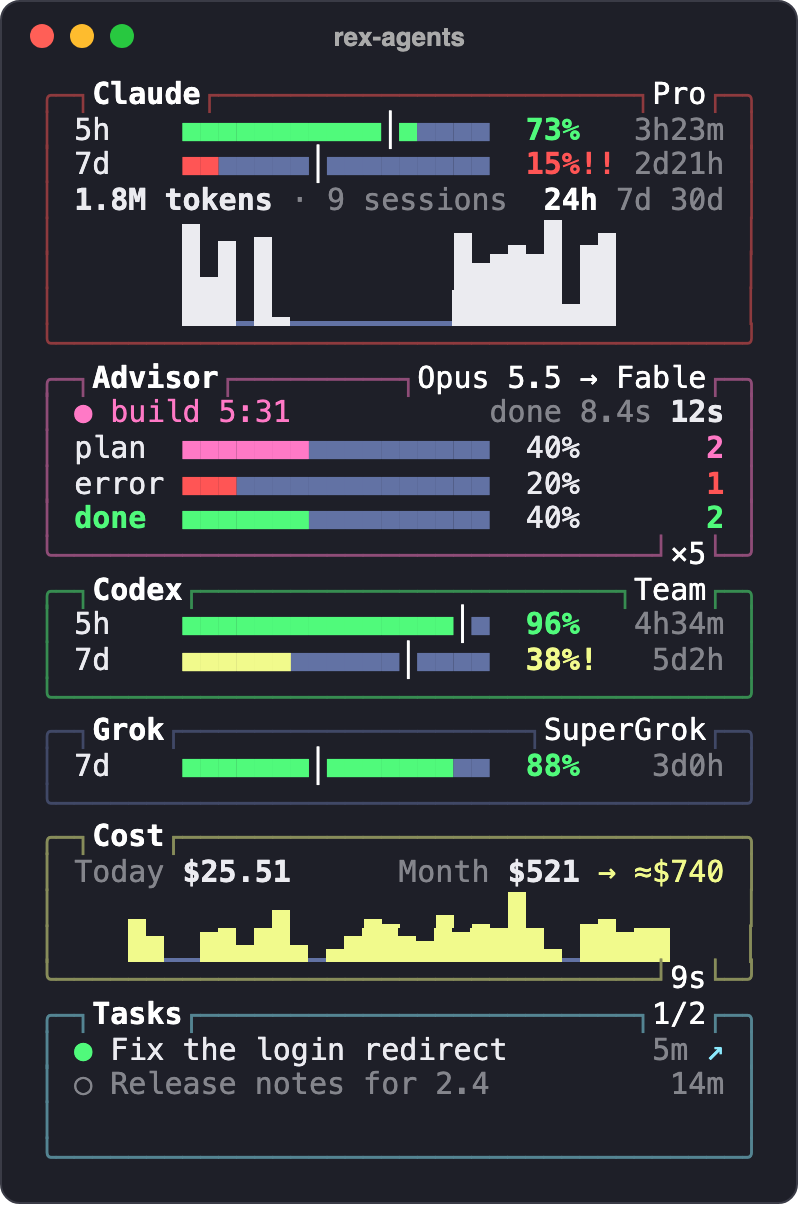
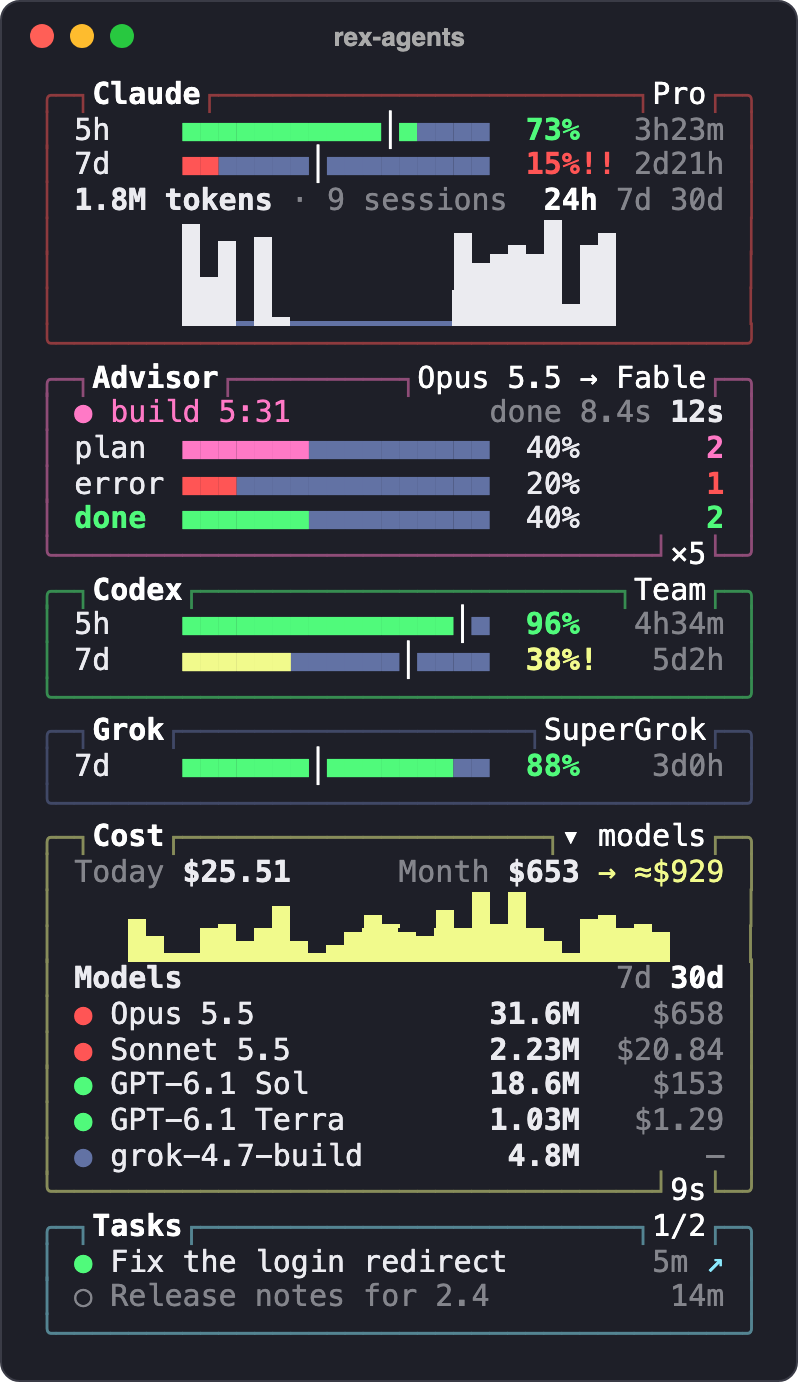
Open each model's tokens and cost from the Cost box
A click on `▸ models` on the Cost box's top edge lists every agent's
models over the last 7 or 30 days, grouped by agent, most tokens first,
with `—` for a model with no public price. Once opened it goes in before
the charts, cut to fit.

diff --git a/rex_agents/pane.py b/rex_agents/pane.py
@@ -112,6 +112,31 @@ def daily_costs(rows: list[dict[str, Any]], now: int, days: int = 30) -> list[fl
     return list(bars.values())
 
 
+# The models list's spans: the hourly rows carry no model.
+MODEL_SPANS = ("7d", "30d")
+AGENT_ORDER = ("claude", "codex", "grok")
+
+
+def model_usage(rows: list[dict[str, Any]], span: str, now: int) -> list[tuple[str, str, int, Optional[float]]]:
+    """Each model's agent, name, tokens and cost over the last `span` days,
+    by agent, then most tokens first. Unused models are left out; a cost is
+    None when the model has no public price."""
+    today = datetime.fromtimestamp(now).date()
+    days = {(today - timedelta(days=i)).isoformat() for i in range(int(span[:-1]))}
+    found: dict[tuple[str, str], list[Any]] = {}
+    for r in rows:
+        if r["date"] not in days:
+            continue
+        name = re.sub(r"^Claude ", "", r.get("model_name") or r["model"])
+        entry = found.setdefault((r["agent"], name), [0, None])
+        entry[0] += tokens(r)
+        if r.get("cost") is not None:
+            entry[1] = (entry[1] or 0) + r["cost"]
+    order = {a: i for i, a in enumerate(AGENT_ORDER)}
+    listed = [(a, n, t, c) for (a, n), (t, c) in found.items() if t]
+    return sorted(listed, key=lambda m: (order.get(m[0], len(order)), m[0], -m[2]))
+
+
 # The trend's spans: the hours of the last day, or the last 7 or 30 days.
 SPANS = ("24h", "7d", "30d")
 CHART_ROWS = 3
@@ -213,7 +238,8 @@ class _Boxes:
         self.width = width
         self.inner = width - 4
 
-    def edge(self, top: bool, color: str, title: str = "", label: str = "", label_color: str = TITLE) -> Line:
+    def edge(self, top: bool, color: str, title: str = "", label: str = "", label_color: str = TITLE,
+             label_key: Optional[str] = None) -> Line:
         left, right = ("╭", "╮") if top else ("╰", "╯")
         opening, closing = ("┐", "┌") if top else ("┘", "└")
         room = self.width - 2 - (text_width(title) + 3 if title else 0)
@@ -224,14 +250,14 @@ class _Boxes:
             line += [Span(title, TITLE, True), Span(closing, color)]
         line.append(Span("─" * max(fill, 0) + (opening if label else ""), color))
         if label:
-            line += [Span(label, label_color), Span(closing + "─", color)]
+            line += [Span(label, label_color, False, label_key), Span(closing + "─", color)]
         line.append(Span(right, color))
         return line
 
     def box(self, title: str, color: str, rows: list[Line], top: str = "", foot: str = "",
-            foot_color: str = TITLE) -> list[Line]:
+            foot_color: str = TITLE, top_key: Optional[str] = None) -> list[Line]:
         body = [[Span("│ ", color), *fit(row, self.inner), Span(" │", color)] for row in rows]
-        return [self.edge(True, color, title, top), *body, self.edge(False, color, "", foot, foot_color)]
+        return [self.edge(True, color, title, top, TITLE, top_key), *body, self.edge(False, color, "", foot, foot_color)]
 
 
 def _spread(left: Line, right: Line, width: int) -> Line:
@@ -244,19 +270,20 @@ def _spread(left: Line, right: Line, width: int) -> Line:
 
 def build_pane(snap: Optional[dict[str, Any]], error: Optional[str], width: int, height: int, now: int,
                advisors: Sequence[dict[str, Any]] = (), tab_agents: Sequence[str] = (),
-               span: str = SPANS[0], linked: Collection[int] = ()) -> list[Line]:
+               span: str = SPANS[0], linked: Collection[int] = (), models: Optional[str] = None) -> list[Line]:
     """Exactly `height` lines of `width` cells. `advisors` are the states
     advisor-live shares of the Claude Code sessions in this tab;
     `tab_agents` the agents running in it, whose boxes get a usage trend
     over `span` when there is room; `linked` the pids of tasks in a Rex
-    pane, which a click on their row goes to."""
+    pane, which a click on their row goes to; `models` the span of the
+    per-model list the Cost box opens to, None while it is closed."""
     width, height = max(width, 1), max(height, 1)
     if snap is None:
         lines: list[Line] = [[Span(error, ERROR)] if error else [Span("Loading", MUTED)]]
     elif width < 24:
         lines = [[Span("Too narrow", MUTED)]]
     else:
-        lines = _layout(snap, error, width, height, now, advisors, tab_agents, span, linked)
+        lines = _layout(snap, error, width, height, now, advisors, tab_agents, span, linked, models)
     lines = [fit(_merge(line), width) for line in lines[:height]]
     return [*lines, *[[Span(" " * width)] for _ in range(height - len(lines))]]
 
@@ -299,7 +326,7 @@ def _advisor_rows(state: dict[str, Any], inner: int, label_w: int, meter_w: int,
 
 def _layout(snap: dict[str, Any], error: Optional[str], width: int, height: int, now: int,
             advisors: Sequence[dict[str, Any]], tab_agents: Sequence[str], span: str,
-            linked: Collection[int]) -> list[Line]:
+            linked: Collection[int], models: Optional[str] = None) -> list[Line]:
     boxes = _Boxes(width)
     accounts = snap["accounts"]
     usage = snap.get("usage", {})
@@ -323,9 +350,24 @@ def _layout(snap: dict[str, Any], error: Optional[str], width: int, height: int,
 
     account_rows = sum(max(1, len(live(a))) + 2 for a in accounts)
     account_rows += sum(len(_moments(st)) + 3 for st in advisors)
-    # Trends only when the boxes, cost and a task row still fit beside them;
-    # the cost chart goes first, then the agents' trends.
-    base = account_rows + 3 + 3
+    # The models list, opened by a click, goes before anything else, cut to
+    # fit; then trends while the boxes, cost and a task row still fit
+    # beside them; the cost chart goes first, then the agents' trends.
+    listed = model_usage(usage.get("rows", []), models, now) if models else []
+    model_rows: list[Line] = []
+    if models:
+        tabs: Line = []
+        for s in MODEL_SPANS:
+            tabs += [Span(" " if tabs else ""), Span(s, TITLE if s == models else MUTED, s == models, f"models:{s}")]
+        model_rows.append(_spread([Span("Models", None, True)], tabs, boxes.inner))
+        for agent, name, n, cost in listed:
+            model_rows.append(_spread([Span("● ", BOX.get(agent, OTHER_BOX).split(";")[-1]), Span(name)],
+                                      [Span(pad_text(count(n), 7, True), None, True),
+                                       Span(pad_text(money(cost), 8, True), MUTED)], boxes.inner))
+        if not listed:
+            model_rows.append([Span("No usage", MUTED)])
+        model_rows = model_rows[:max(0, height - (account_rows + 3 + 3))]
+    base = account_rows + 3 + 3 + len(model_rows)
     charted = [a["agent"] for a in accounts if a["agent"] in tab_agents]
     if height < base + len(charted) * (1 + CHART_ROWS):
         charted = []
@@ -395,7 +437,9 @@ def _layout(snap: dict[str, Any], error: Optional[str], width: int, height: int,
     if cost_chart:
         cost_rows += [[Span(c.text, c.color or COST_BAR) for c in row]
                       for row in chart(daily_costs(usage.get("rows", []), now, COST_DAYS), boxes.inner, COST_ROWS)]
-    out += boxes.box("Cost", BOX["cost"], cost_rows, "", age, ERROR if error else MUTED if snap.get("refreshing") else TITLE)
+    cost_rows += model_rows
+    out += boxes.box("Cost", BOX["cost"], cost_rows, "▾ models" if models else "▸ models", age,
+                     ERROR if error else MUTED if snap.get("refreshing") else TITLE, "models")
 
     # Running tasks first, then the newest; the box takes every row left over.
     room = max(1, height - len(out) - 2)

diff --git a/tests/test_pane.py b/tests/test_pane.py
@@ -228,3 +228,32 @@ def test_a_task_in_a_rex_pane_is_a_link_across_its_whole_row():
     assert plain(linked).rstrip(" │").endswith("10m ↗") and "↗" not in plain(other)
     assert {key_at(linked, c) for c in range(2, 38)} == {"task:7"}
     assert key_at(linked, 0) is None and {key_at(other, c) for c in range(40)} == {None}
+
+
+def test_the_cost_box_opens_to_each_models_tokens_and_cost():
+    from rex_agents.pane import model_usage
+    from rex_agents.text import key_at
+    today = datetime.fromtimestamp(NOW).date()
+    def row(agent, model, name, out, cost, days_ago=0):
+        return {"date": (today - timedelta(days=days_ago)).isoformat(), "agent": agent, "model": model,
+                "model_name": name, "fresh": 0, "cache_read": 99, "cache_write": 0, "output": out, "cost": cost}
+    rows = [row("codex", "gpt", "GPT-6.1 Sol", 50, 1.0), row("claude", "opus", "Claude Opus 5.5", 10, 2.0),
+            row("claude", "opus", "Claude Opus 5.5", 5, 1.0, 1), row("claude", "fable", "Claude Fable 5.2", 30, None),
+            row("claude", "sonnet", "Claude Sonnet 5.5", 99, 9.0, 20), row("grok", "g", "g", 0, None)]
+    assert model_usage(rows, "7d", NOW) == [("claude", "Fable 5.2", 30, None), ("claude", "Opus 5.5", 15, 3.0),
+                                            ("codex", "GPT-6.1 Sol", 50, 1.0)]
+    assert ("claude", "Sonnet 5.5", 99, 9.0) in model_usage(rows, "30d", NOW)
+    closed = build_pane(snapshot(usage={"rows": rows}), None, 40, 40, NOW)
+    edge = next(l for l in closed if "Cost" in plain(l))
+    assert "▸ models" in plain(edge) and "models" in {key_at(edge, c) for c in range(40)}
+    assert not any("Opus 5.5" in plain(l) for l in closed)
+    opened = build_pane(snapshot(usage={"rows": rows}), None, 40, 40, NOW, models="7d")
+    text = [plain(l) for l in opened]
+    assert any("▾ models" in t for t in text)
+    head = next(l for l in opened if plain(l).startswith("│ Models"))
+    assert {key_at(head, c) for c in range(40)} == {None, "models:7d", "models:30d"}
+    assert any("● Fable 5.2" in t and t.rstrip(" │").endswith("—") for t in text)
+    assert any("● Opus 5.5" in t and "$3.00" in t for t in text)
+    # Short of rows the list is cut to fit, and the tasks keep their edge.
+    tight = build_pane(snapshot(usage={"rows": rows}), None, 40, 16, NOW, models="7d")
+    assert plain(tight[-1]).startswith("╰") and any(plain(l).startswith("│ Models") for l in tight)

diff --git a/rex_agents/cli.py b/rex_agents/cli.py
@@ -14,7 +14,7 @@ from rex_agents import __version__
 from rex_agents.advisor import AdvisorFeed
 from rex_agents.alerts import notices, osc
 from rex_agents.links import Links
-from rex_agents.pane import SPANS, build_pane
+from rex_agents.pane import MODEL_SPANS, SPANS, build_pane
 from rex_agents.text import Line
 from rex_agents.watch import watch
 
@@ -39,6 +39,7 @@ def main() -> int:
     tab = AdvisorFeed()
     links = Links()
     span = [SPANS[0]]
+    models: list[Optional[str]] = [None]  # the models list's span while it is open
     told: list[str] = []
 
     def fetch() -> dict[str, Any]:
@@ -56,6 +57,10 @@ def main() -> int:
         # 1, 2 and 3 pick the trend's span: 24h, 7d, 30d; a task row goes to its pane.
         if key in ("1", "2", "3"):
             span[0] = SPANS[int(key) - 1]
+        elif key == "models":
+            models[0] = None if models[0] else MODEL_SPANS[-1]
+        elif key.startswith("models:"):
+            models[0] = key[7:]
         elif key.startswith("task:"):
             links.go(int(key[5:]))
 
@@ -63,7 +68,7 @@ def main() -> int:
         while told:
             sys.stdout.write(told.pop(0))
         advisors = tab()  # refreshes tab.agents too
-        return build_pane(snap, error, w, h, int(time.time()), advisors, tab.agents, span[0], links.places)
+        return build_pane(snap, error, w, h, int(time.time()), advisors, tab.agents, span[0], links.places, models[0])
 
     # The last snapshot shows at once, marked refreshing, until a live one lands.
     watch(fetch, compose, wants_color(), REFRESH_SECONDS, on_key, snapshots.restored())

diff --git a/README.zh-CN.md b/README.zh-CN.md
@@ -37,7 +37,7 @@ dofile("/Users/you/Developer/rex-agents/rex/init.lua").setup({ bin = { "/Users/y
 - **每个 agent 一个框**，每个额度窗口一行：剩余量的进度条、剩余比例和距离重置的时间。亮色刻度表示按匀速消耗此刻应在的位置。`!` 表示剩余 40% 或更少，`!!` 表示 20% 或更少。标题上显示套餐，有工作区时也显示工作区；数据过期的账户在框底显示过期多久，如 `stale 3h`。
 - **用量趋势**，显示在当前标签页里正在运行的 agent 的框中：最近 24 小时每小时的 token，或最近 7 天、30 天每天的 token，以及合计和涉及的会话数。缓存读取不计入：每个回合都会重读整个上下文，计入会淹没回合本身新增的用量。点击 `24h`、`7d`、`30d`，或在面板里按 `1`、`2`、`3` 切换。面板会接收鼠标点击，所以要选中其中的文字需按住 Option 拖动。
 - **Advisor**，当前标签页里有 Claude Code 会话设置了 advisor 时显示在 Claude 框下方：主模型和 advisor，主模型是否在工作，advisor 上次回答是多久以前，以及每个应当介入的时机各有多少次调用：计划定下之前、同一错误出现两次、宣布完成之前，以及其间的 check-in。设置了 advisor 但连续三个工作回合都没被调用时显示 `idle · N turns`：它很可能比主模型弱，永远不会被唤起。
-- **Cost**（费用）：今天和本月的费用，按公开 API 价格估算，并按本月至今的速度估算月底总额（`→ ≈$856`），下方是最近 30 天每天的费用。框底显示数据多久以前更新。
+- **Cost**（费用）：今天和本月的费用，按公开 API 价格估算，并按本月至今的速度估算月底总额（`→ ≈$856`），下方是最近 30 天每天的费用。点击框顶的 `▸ models` 展开各模型最近 7 天或 30 天的 token 和费用，再点一次收起。框底显示数据多久以前更新。
 - **Tasks**（任务）：各 agent 的会话，`●` 运行中，`○` 空闲，一直排到面板底部。在 Rex 窗格里运行的会话行尾带 `↗`：鼠标移上去整行高亮，点击跳到它所在的会话和标签页。
 
 面板变矮时先隐藏费用图，再隐藏趋势图，再矮就每个 agent 折叠成一行。每 60 秒刷新一次；打开时先显示上次的数据并标注 `refreshing`，直到新数据到达。无论开了多少个面板，再加上其他使用 agents-meter 的工具，Claude 和 Grok 的额度加起来每分钟只查询一次。在面板里按 `q` 退出。

diff --git a/README.md b/README.md
@@ -37,7 +37,7 @@ The panel shows this machine's agents, so it opens only in sessions on this mach
 - **One box per agent**, a row per quota window: a meter of what is left, the share left and the time to the reset. The bright notch is where an even pace would be now. `!` marks 40% or less left, `!!` 20% or less. The title carries the plan, and the workspace where there is one; a stale account's foot says how old its data is, such as `stale 3h`.
 - **Usage trend**, in the box of each agent running in the tab: tokens per hour over the last 24 hours, or per day over the last 7 or 30 days, with the total and how many sessions it spans. Cache reads are left out: every turn rereads the whole context, so they would swamp what the turns added. Click `24h`, `7d` or `30d`, or press `1`, `2` or `3` in the panel, to switch. The panel takes mouse clicks, so selecting its text needs Option-drag.
 - **Advisor**, under Claude's box while a Claude Code session in the tab has an advisor: the main model and the advisor, whether the main model is working, how long ago the advisor last answered, and how many calls fell under each moment it is meant to wake up: before the plan locks, the same error twice, before calling it done, and check-ins between. An advisor set but not called through three working turns reads `idle · N turns`: it is likely less capable than the main model and never activates.
-- **Cost**: today's and this month's, estimated at public API prices, where the month lands at its pace so far (`→ ≈$856`), and the cost of each of the last 30 days. The foot says how old the data is.
+- **Cost**: today's and this month's, estimated at public API prices, where the month lands at its pace so far (`→ ≈$856`), and the cost of each of the last 30 days. Click `▸ models` on its top edge to open each model's tokens and cost over the last 7 or 30 days, and again to close it. The foot says how old the data is.
 - **Tasks**: the agents' sessions, `●` running and `○` idle, down to the panel's foot. A session running in a Rex pane ends in `↗`: its row lights under the pointer, and a click goes to its session and tab.
 
 A shorter panel drops the cost chart first, then the trends, then folds to one line per agent. It refreshes every 60 seconds, and opens on the last data it saw, marked `refreshing`, until fresh data arrives. However many panels are open, alongside any other tool using agents-meter, Claude and Grok are asked for their quota once a minute between them all. Press `q` in the panel to quit it.
